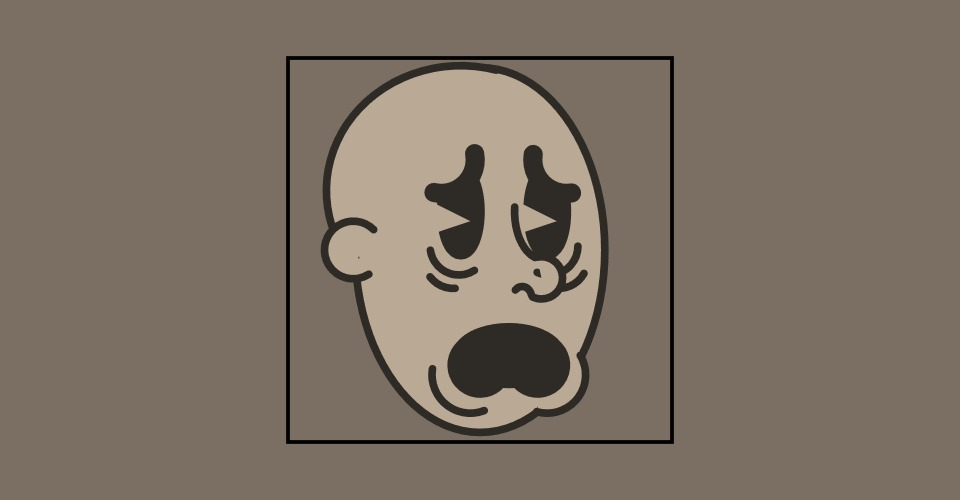
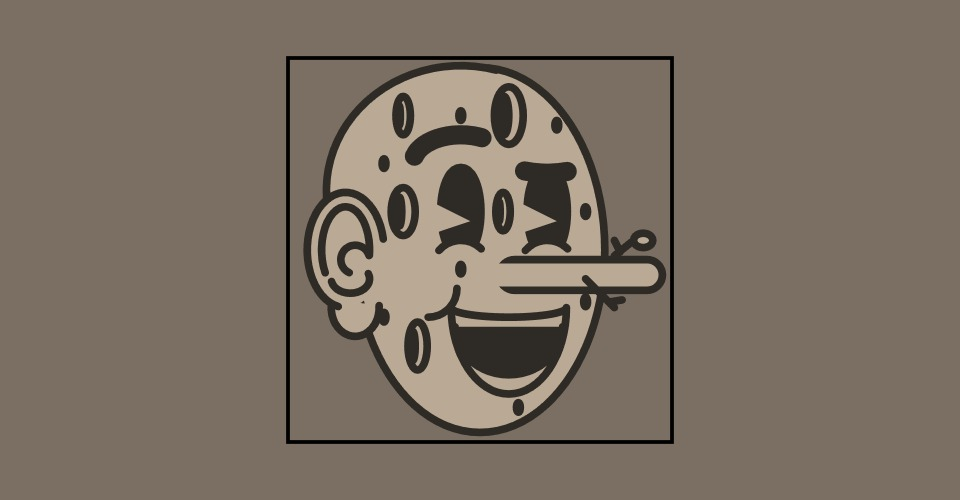
see read.me

Changed region(s): [[0.3125, 0.15, 0.7188, 0.84]]

diff --git a/extra.js b/extra.js
@@ -7,14 +7,68 @@ function EXTRAS(extraType){
   
     
     if (extraType == 1){
-        stroke(MustyBrown_const);
-        fill(LightBeige_const);
-        strokeWeight(.4);
-        rect(0,0,2,2)
+       stroke(MustyBrown_const);
+       
+        strokeWeight(.7);
+
+        fill(MustyBrown_const)
+        rect(-8.2,-6,2.5,2,3,3,3,3) // left circulir base and chip
+        arc(-7,-8.5,5,9,1.5,3.2 ,OPEN) //left horn outline bottom
+         noFill()
+        arc(-7,-9,5,6,1.5,3.2) //left horn outline top 
+
+
+        fill(MustyBrown_const)
+        arc(4,-8.5,5,9,6.2,1.11 ,OPEN) //right  horn outline bottom
+         noFill()
+        arc(4,-9,5,6,6.2,1.15) //right  horn outline top 
+        arc(4,-8.4,5,6,6.2,1.11) //right  horn outline fill
     }
 
     else if (extraType == 2){
-      
+        stroke(MustyBrown_const);
+        fill(LightBeige_const);
+        strokeWeight(.4);
+
+        /**BIG HOLES */
+
+        ellipse(1.5,-7,1.5,3) // hole 1 outline
+        fill(MustyBrown_const);
+        ellipse(1.25,-7,.5,2) // hole 1 dark
+
+        fill(LightBeige_const);
+        ellipse(-3.25,5,1,2.5) // hole 2 outline
+        fill(MustyBrown_const);
+        ellipse(-3.5,5,0.25,1.5) // hole 2 dark
+
+        fill(LightBeige_const);
+        ellipse(-4,-7,.75,2) // hole 3 outline
+        fill(MustyBrown_const);
+        ellipse(-4.2,-7,0.1,1) // hole 3 dark
+
+        fill(LightBeige_const);
+        ellipse(1.2,-2,.75,2) // hole 4 outline
+        fill(MustyBrown_const);
+        ellipse(1,-2,0.1,1) // hole 4 dark
+
+        fill(LightBeige_const);
+        ellipse(-4,-2,1.25,2.5) // hole 5 outline
+        fill(MustyBrown_const);
+        ellipse(-4.2,-2,0.25,1.5) // hole 5 dark
+
+        /**SMALL HOLES */
+
+        ellipse(2,8.2,0.2,0.5) // bottom right under mouth
+        ellipse(5.5,2.7,0.2,0.5) // middle right above mouth
+        ellipse(-1,1,0.2,0.5) // middle middle underneath eye
+        ellipse(-1,-7,0.2,0.5) // middle top above eyebrow
+        ellipse(4,-6.5,0.2,0.5) // top right above eyebrow
+        ellipse(5.5,-2,0.2,0.5) // middle right below eye
+        ellipse(-5,3.5,0.2,0.5) // middle left below ear
+        ellipse(-5,-4.5,0.2,0.5) // middle left below ear
+
+
+        
     }
 
     else if (extraType == 3){
@@ -36,9 +90,9 @@ function EXTRAS(extraType){
     
     
 else if (extraType == 4){
-       stroke(MustyBrown_const);
-        fill(LightBeige_const);
-        strokeWeight(.6);
+    stroke(MustyBrown_const);
+    fill(LightBeige_const);
+    strokeWeight(.7)
         line(1.5,-7,8,-7) // arrow stick
         strokeWeight(.4)
         quad(7,-7,8,-8,9,-8,8,-7); // arrow feath top       

diff --git a/ear.js b/ear.js
@@ -87,8 +87,8 @@ else if (earType == 2){
         push();
         noFill()
         rotate(-0.7)
-        arc(-5.2,-5,1.5,3.5,1.7,4.7,) // ear inside lines
-        arc(-4.5,-6,1.5,3.5,1.7,4.25,) // ear inside lines
+        arc(-5.2,-5,1.5,3.5,1.7,4.7,) // ear inside line 1
+        arc(-4.5,-6,1.5,3.5,1.7,4.25,) // ear inside line 2
         pop();
     
       

diff --git a/face_code.js b/face_code.js
@@ -64,12 +64,13 @@ fill(DarkBeige_const)
 
 /********NOSE*********/
   NOSE(noseType);
-
+  
+ /**extras */
+  EXTRAS(extraType);
   /**EAR */
   EAR(earType);
 
-  /**extras */
-  EXTRAS(extraType);
+ 
   
 }
 

diff --git a/README.md b/README.md
@@ -31,3 +31,9 @@ So far, I’ve created four sets of nose, eyes and mouths. each of these work wi
 
 
 Following on from last week, I have now created 4 differents ets of eyes, noses and mouths. I made the decision to thicken up the stroke for the eyebrows to exaggerate their effect. I’m trying to be careful to not have the different types clash and not work, which proves a little difficult but is a good filter for my limitations.
+
+22/ 04
+
+After a painstaking long process of drawing lots and lots of shapes, I have finally finished a baseline of variables for each facial feature of my character. This means that now i have 5 categories; eyes, mouth, nose, ear, extras with each have four different types. I believe this will give me a nice set of variation to include. I decided that i would include the ‘extras’ category instead of hair or hats as i didn’t exactly include room for them, but later on i could try figure out something underneath that topic. my next part to work on is weighted variables and actually featuring them in the arrangement.
+
+After last week I added 4 sets of ears and extras each. I decide to go with ‘extras’ instead of hats and hair as I didn’t create enough room for myself in the beginning but I could perhaps add something along those lines later. I wanted to create a colour variable that would change it from a dark brown to a very light beige but in order to include this 
